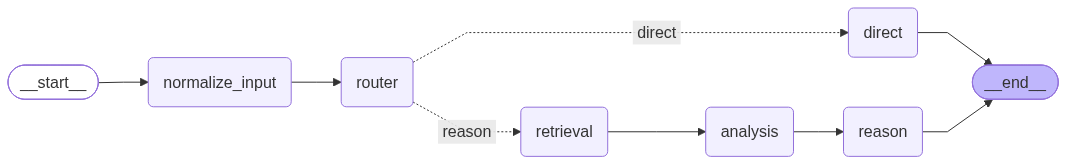
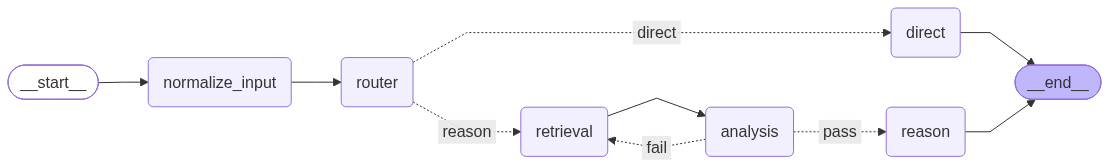
Run diagnostics and analyze through llm-as-judge for retrieval quality

diff --git a/agents/nodes/analysis.py b/agents/nodes/analysis.py
@@ -1,13 +1,68 @@
+import logging
+
+from pydantic import BaseModel
+
 from agents.analysis import compute_retrieval_diagnostics
-from agents.state import AgentState, AgentStateUpdate
+from agents.runtime import AgentRuntime
+from agents.state import (
+    AgentState,
+    AgentStateUpdate,
+    AnalysisVerdict,
+    NO_RETRIEVED_CONTEXT,
+    RetrievalDiagnostics,
+)
 
 
-def make_analysis_node():
+logger = logging.getLogger(__name__)
+
+
+class AnalysisDecision(BaseModel):
+    verdict: AnalysisVerdict
+
+
+def format_diagnostics(diagnostics: RetrievalDiagnostics) -> str:
+    return (
+        f"chunks retrieved: {diagnostics.chunk_count}\n"
+        "similarity scores (min/mean/max): "
+        f"{diagnostics.min_score:.3f} / {diagnostics.mean_score:.3f} / "
+        f"{diagnostics.max_score:.3f}\n"
+        f"median similarity score: {diagnostics.median_score:.3f}\n"
+        f"chunks above relevance threshold: "
+        f"{diagnostics.above_threshold_count}/{diagnostics.chunk_count}\n"
+        f"deterministic coverage verdict: {diagnostics.coverage_verdict}"
+    )
+
+
+def make_analysis_node(runtime: AgentRuntime):
     def analysis_node(state: AgentState) -> AgentStateUpdate:
+        diagnostics = compute_retrieval_diagnostics(
+            state.get("retrieval_distances", [])
+        )
+        assessment_llm = runtime.llm_factory(runtime.model_name).with_structured_output(
+            AnalysisDecision
+        )
+        assessment_prompt = (
+            "Assess whether the retrieved context is sufficient to answer the user "
+            "prompt accurately. Return 'pass' only when the context is relevant and "
+            "adequately covers the request; otherwise return 'fail'.\n\n"
+            f"User prompt:\n{state.get('prompt', '')}\n\n"
+            f"Retrieved context:\n{state.get('context', NO_RETRIEVED_CONTEXT)}\n\n"
+            f"Retrieval diagnostics:\n{format_diagnostics(diagnostics)}"
+        )
+
+        try:
+            verdict = assessment_llm.invoke(assessment_prompt).verdict
+        except Exception:
+            logger.exception("Retrieval assessment failed. Treating context as failed.")
+            verdict = "fail"
+
         return {
-            "retrieval_diagnostics": compute_retrieval_diagnostics(
-                state.get("retrieval_distances", [])
-            )
+            "retrieval_diagnostics": diagnostics,
+            "analysis_verdict": verdict,
         }
 
     return analysis_node
+
+
+def select_analysis_verdict(state: AgentState) -> AnalysisVerdict:
+    return state.get("analysis_verdict", "fail")

diff --git a/tests/test_graph.py b/tests/test_graph.py
@@ -1,9 +1,11 @@
 import unittest
+from unittest.mock import MagicMock
 
 from agents.analysis import compute_retrieval_diagnostics
 from agents.graph import agent_graph
 from agents.nodes.analysis import make_analysis_node
 from agents.nodes.input import make_normalize_input_node
+from agents.runtime import AgentRuntime
 
 
 class RetrievalDiagnosticsTests(unittest.TestCase):
@@ -13,13 +15,33 @@ class RetrievalDiagnosticsTests(unittest.TestCase):
         self.assertEqual(diagnostics.chunk_count, 0)
         self.assertEqual(diagnostics.coverage_verdict, "insufficient")
 
-    def test_analysis_node_returns_only_diagnostics_update(self) -> None:
-        result = make_analysis_node()(
-            {"prompt": "question", "response": "", "retrieval_distances": [0.2, 0.4]}
+    def test_analysis_node_returns_diagnostics_and_llm_pass_verdict(self) -> None:
+        llm = MagicMock()
+        llm.with_structured_output.return_value.invoke.return_value.verdict = "pass"
+        runtime = AgentRuntime(
+            model_name="test-model",
+            embedding_model="test-embedding",
+            llm_factory=lambda _: llm,
         )
 
-        self.assertEqual(set(result), {"retrieval_diagnostics"})
+        result = make_analysis_node(runtime)(
+            {
+                "prompt": "question",
+                "response": "",
+                "context": "[Context 1 | source: test]\nRelevant answer",
+                "retrieval_distances": [0.2, 0.4],
+            }
+        )
+
+        self.assertEqual(set(result), {"retrieval_diagnostics", "analysis_verdict"})
         self.assertEqual(result["retrieval_diagnostics"].coverage_verdict, "sufficient")
+        self.assertEqual(result["analysis_verdict"], "pass")
+        assessment_prompt = (
+            llm.with_structured_output.return_value.invoke.call_args.args[0]
+        )
+        self.assertIn("question", assessment_prompt)
+        self.assertIn("Relevant answer", assessment_prompt)
+        self.assertIn("similarity scores", assessment_prompt)
 
 
 class GraphTopologyTests(unittest.TestCase):
@@ -68,6 +90,7 @@ class GraphTopologyTests(unittest.TestCase):
                 ("normalize_input", "router"),
                 ("retrieval", "analysis"),
                 ("analysis", "reason"),
+                ("analysis", "retrieval"),
                 ("reason", "__end__"),
             }
             <= edges

diff --git a/agents/graph.py b/agents/graph.py
@@ -1,6 +1,6 @@
 from langgraph.graph import END, START, StateGraph
 
-from agents.nodes.analysis import make_analysis_node
+from agents.nodes.analysis import make_analysis_node, select_analysis_verdict
 from agents.nodes.input import make_normalize_input_node
 from agents.nodes.reasoning import make_reason_node
 from agents.nodes.retrieval import make_retrieval_node
@@ -20,7 +20,7 @@ def build_graph(runtime: AgentRuntime):
     graph.add_node("router", make_router_node(runtime))
     graph.add_node("direct", make_direct_node(runtime))
     graph.add_node("retrieval", make_retrieval_node(runtime))
-    graph.add_node("analysis", make_analysis_node())
+    graph.add_node("analysis", make_analysis_node(runtime))
     graph.add_node("reason", make_reason_node(runtime))
 
     graph.add_edge(START, "normalize_input")
@@ -32,7 +32,11 @@ def build_graph(runtime: AgentRuntime):
     )
     graph.add_edge("direct", END)
     graph.add_edge("retrieval", "analysis")
-    graph.add_edge("analysis", "reason")
+    graph.add_conditional_edges(
+        "analysis",
+        select_analysis_verdict,
+        {"pass": "reason", "fail": "retrieval"},
+    )
     graph.add_edge("reason", END)
 
     return graph.compile()

diff --git a/agents/state.py b/agents/state.py
@@ -3,6 +3,7 @@ from typing import Literal, NotRequired, TypedDict
 
 
 Route = Literal["direct", "reason"]
+AnalysisVerdict = Literal["pass", "fail"]
 CoverageVerdict = Literal["sufficient", "partial", "insufficient"]
 
 NO_RETRIEVED_CONTEXT = "No relevant context was retrieved from the knowledge base."
@@ -32,6 +33,7 @@ class AgentState(TypedDict):
     context: NotRequired[str]
     retrieval_distances: NotRequired[list[float]]
     retrieval_diagnostics: NotRequired[RetrievalDiagnostics]
+    analysis_verdict: NotRequired[AnalysisVerdict]
 
 
 class AgentStateUpdate(TypedDict, total=False):
@@ -41,3 +43,4 @@ class AgentStateUpdate(TypedDict, total=False):
     context: str
     retrieval_distances: list[float]
     retrieval_diagnostics: RetrievalDiagnostics
+    analysis_verdict: AnalysisVerdict

diff --git a/README.md b/README.md
@@ -10,7 +10,8 @@ This project contains:
 ## LangGraph agent
 
 - Graph entry point: `agent_graph` in `agents/graph.py`
-- Reasoning route: `retrieval` -> `analysis` -> `reason`
+- Reasoning route: `retrieval` -> `analysis` -> `reason`, with `analysis`
+	returning to `retrieval` when its structured assessment fails
 - Direct route: `direct`
 - Invocation helper: `invoke_agent(prompt: str) -> str` in `agents/graph.py`
 - API schemas: `InvokeRequest` and `InvokeResponse` in `app/schemas.py`
@@ -24,10 +25,12 @@ This project contains:
 - `agents/analysis.py`: deterministic retrieval diagnostics
 - `agents/nodes/`: individual routing, retrieval, analysis, and reasoning nodes
 
-The router chooses either `direct` -> `END` or
-`retrieval` -> `analysis` -> `reason` -> `END`. Nodes return only the state
-fields they update, allowing future branches to add state without overwriting
-unrelated values.
+The router chooses either `direct` -> `END` or `retrieval` -> `analysis`.
+Analysis computes deterministic score statistics, then asks an LLM for a
+structured `pass` or `fail` assessment using the prompt, retrieved context, and
+statistics. `pass` continues to `reason` -> `END`; `fail` returns to
+`retrieval`. Nodes return only the state fields they update, allowing future
+branches to add state without overwriting unrelated values.
 
 ### Environment variables
 
